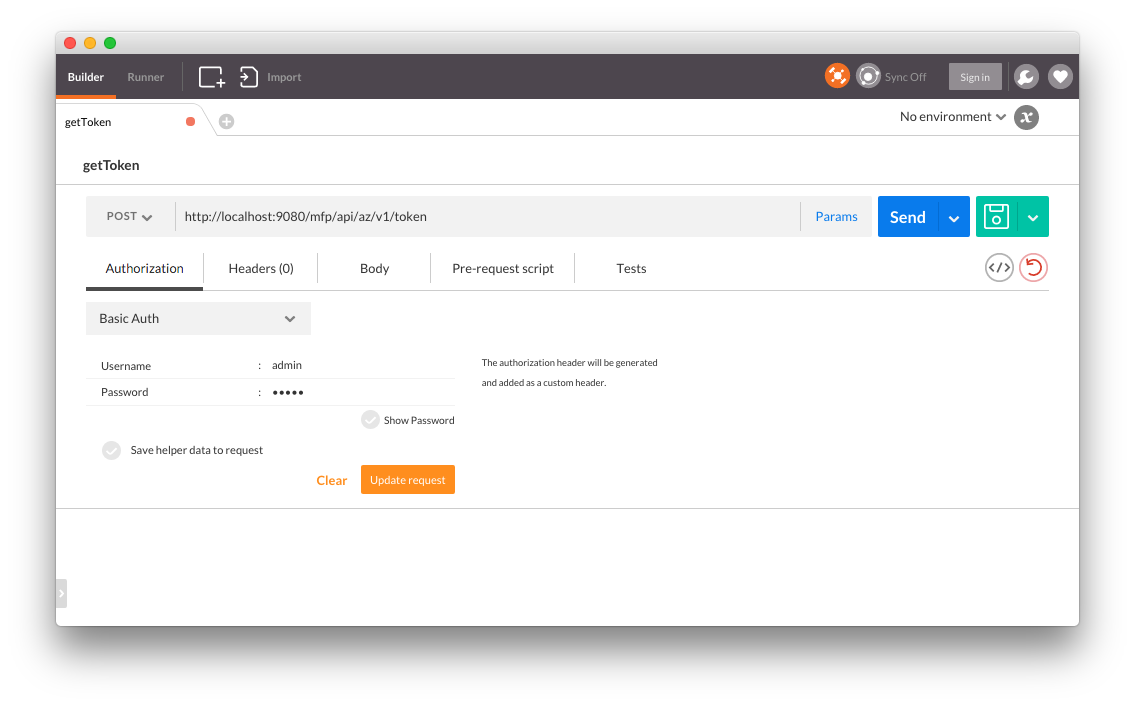
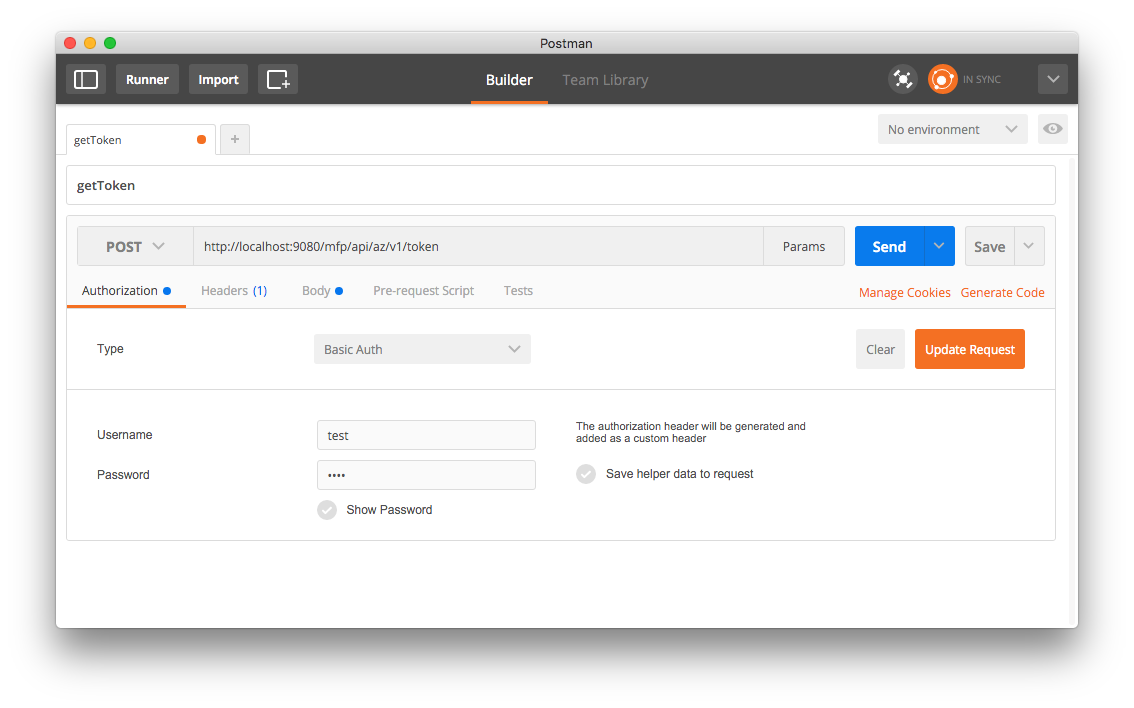
Updated the testing adapter tutorial

diff --git a/tutorials/en/foundation/8.0/adapters/testing-and-debugging-adapters/index.md b/tutorials/en/foundation/8.0/adapters/testing-and-debugging-adapters/index.md
@@ -33,7 +33,7 @@ The structure of the URL used to access the adapter resource is:
 * When using JavaScript adapters, parameters are passed as `params=["param1", "param2"]`. In other words, a JavaScript procedure receives only one parameter called `params` which needs to be **an array of ordered, unnamed values**. This parameter can either be in the URL (`GET`) or in the body (`POST`) using `Content-Type: application/x-www-form-urlencoded`.
 
 ### Handling security
-If your resource is protected by a scope, the request prompts you to provide a valid authorization header. Note that by default, MobileFirst uses a simple security scope even if you did not specify any. So unless you specifically disabled security, the endpoint is always protected.
+The MobileFirst security framework requires an access token for any adapter resource even if the resource is not explicitly assigned a scope. So unless you specifically disabled security, the endpoint is always protected.
 
 To disable security in Java adapters you should attach the `OAuthSecurity` annotation to the method/class:
 
@@ -63,7 +63,8 @@ For testing purposes set **Allowed Scopes** as `**`.
 1. Use your HTTP client (Postman) to make an HTTP `POST` request to `http://<IP>:<PORT>/mfp/api/az/v1/token` with the following parameters using `Content-Type: application/x-www-form-urlencoded`:
 
 * `grant_type` : `client_credentials`
-* `scope` : `**`
+* `scope` : Use the scope protecting the resource.  
+If you don't use a scope to protect your resource, use an empty string.
 
 
   ![Image of Postman Body configuration](Body_configuration.png)
